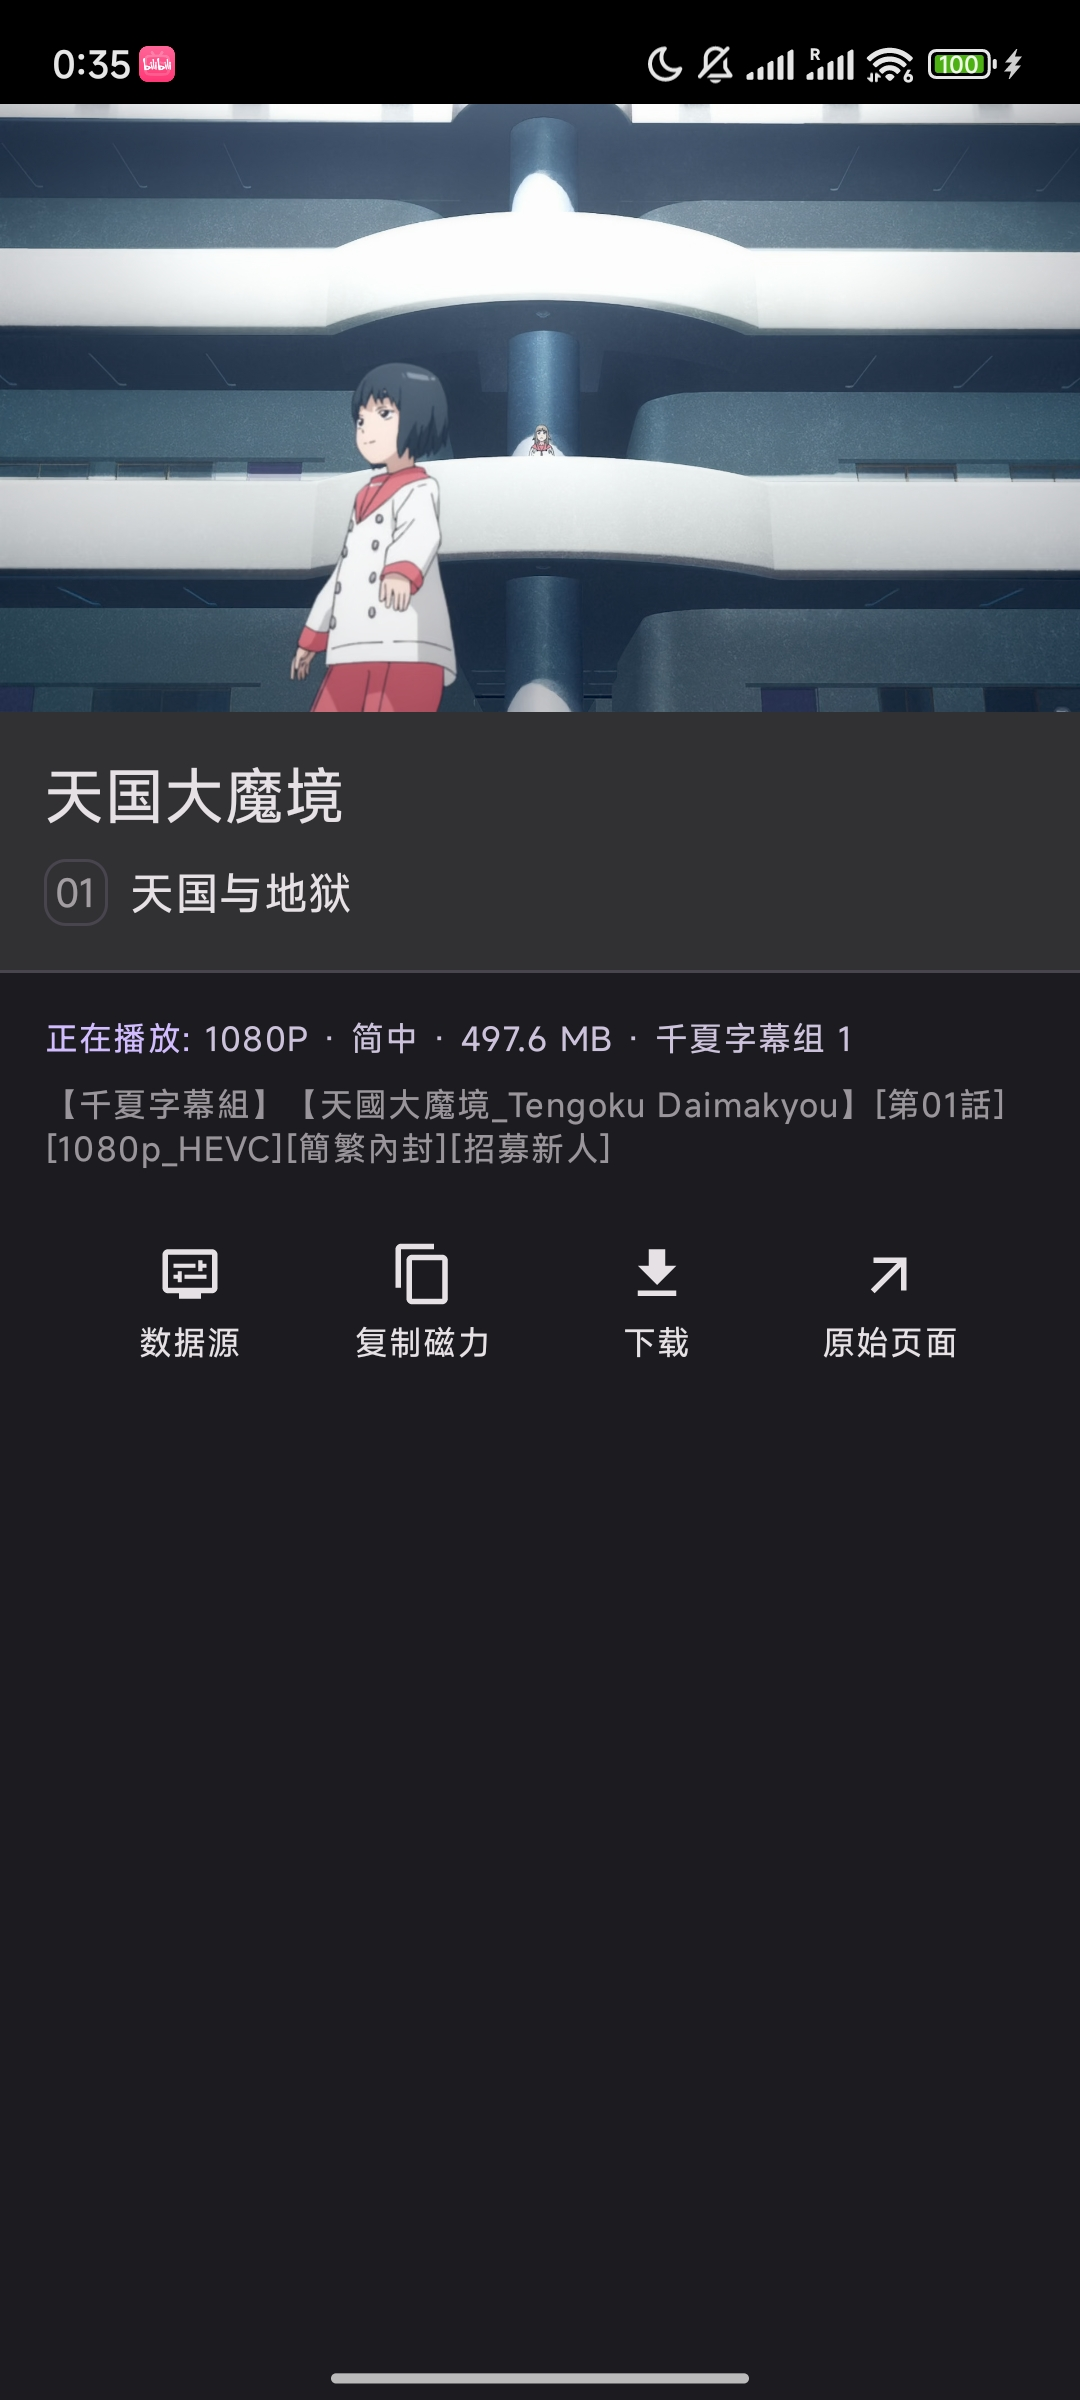
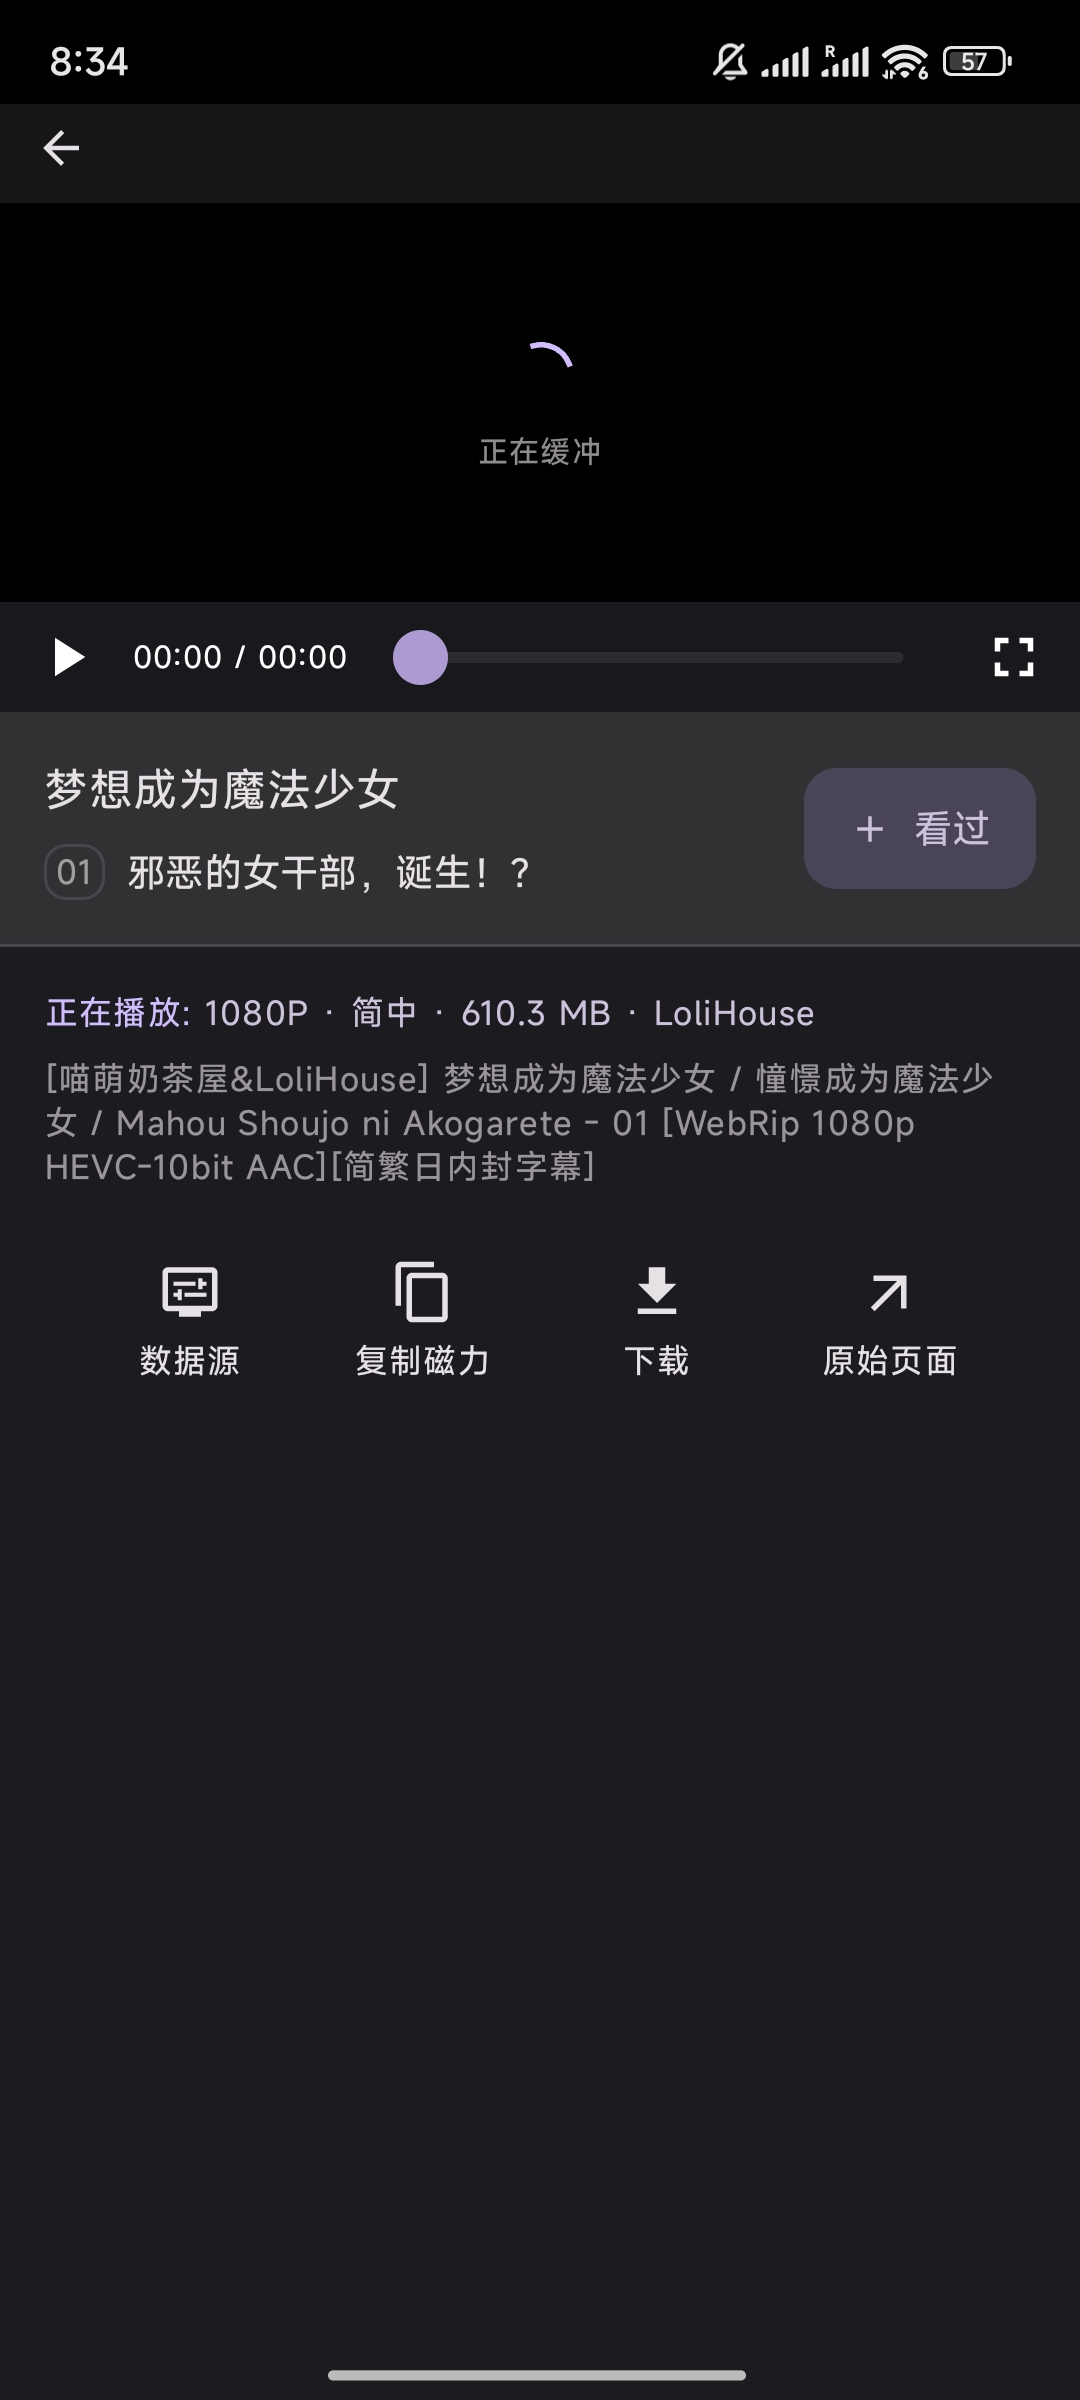
Update README and screenshots

diff --git a/README.md b/README.md
@@ -28,14 +28,10 @@ Bangumi,
 
 Ani 支持 Android 和桌面端 (macOS、Linux、Windows)。
 
-3.0 重构还在进行中, 2.0 正式版本可在 [releases](https://github.com/Him188/ani/releases/latest)
+3.0 重构还在进行中, 3.0 测试版可以在 [releases](https://github.com/Him188/ani/releases/latest)
 中的 "Assets" 下载最新正式版本。(注意: 2.0 与 3.0 完全不同)
 
-2.x 测试版本可以在 [releases](https://github.com/Him188/ani/releases/) 找到。
-使用测试版本可以体验最新特性，但可能不稳定。
-
-~3.0 开发测试版本可以在每个 commit 的自动构建中找到。~ CD 发生了点意外, 3.0 构建没在运行,
-等第一个里程碑发布后会修复.
+3.0 开发测试版本可以在每个 commit 的 macos-12 构建中找到。
 
 ## 未来 3.0 功能截图
 
@@ -90,13 +86,17 @@ Ani 支持 Android 和桌面端 (macOS、Linux、Windows)。
 
 <img width="300" src=".readme/images/episode/episode-player-loading.jpg" alt="episode-player-loading"/> <img width="300" src=".readme/images/episode/episode-player-playing.jpg" alt="episode-player-playing"/>
 
+### 全屏播放
+
+<img width="600" src=".readme/images/episode/episode-player-fullscreen.jpg" alt="episode-player-fullscreen"/>
+
 ### 弹幕与评论
 
 计划中, 将在第二个里程碑支持.
 
 ### 标题 / 标签搜索页面
 
-~重构掉了, 下次补上~
+在首页, 目前支持使用标题关键词搜索. 其他搜索方式计划实现中.
 
 ### 桌面端
 
